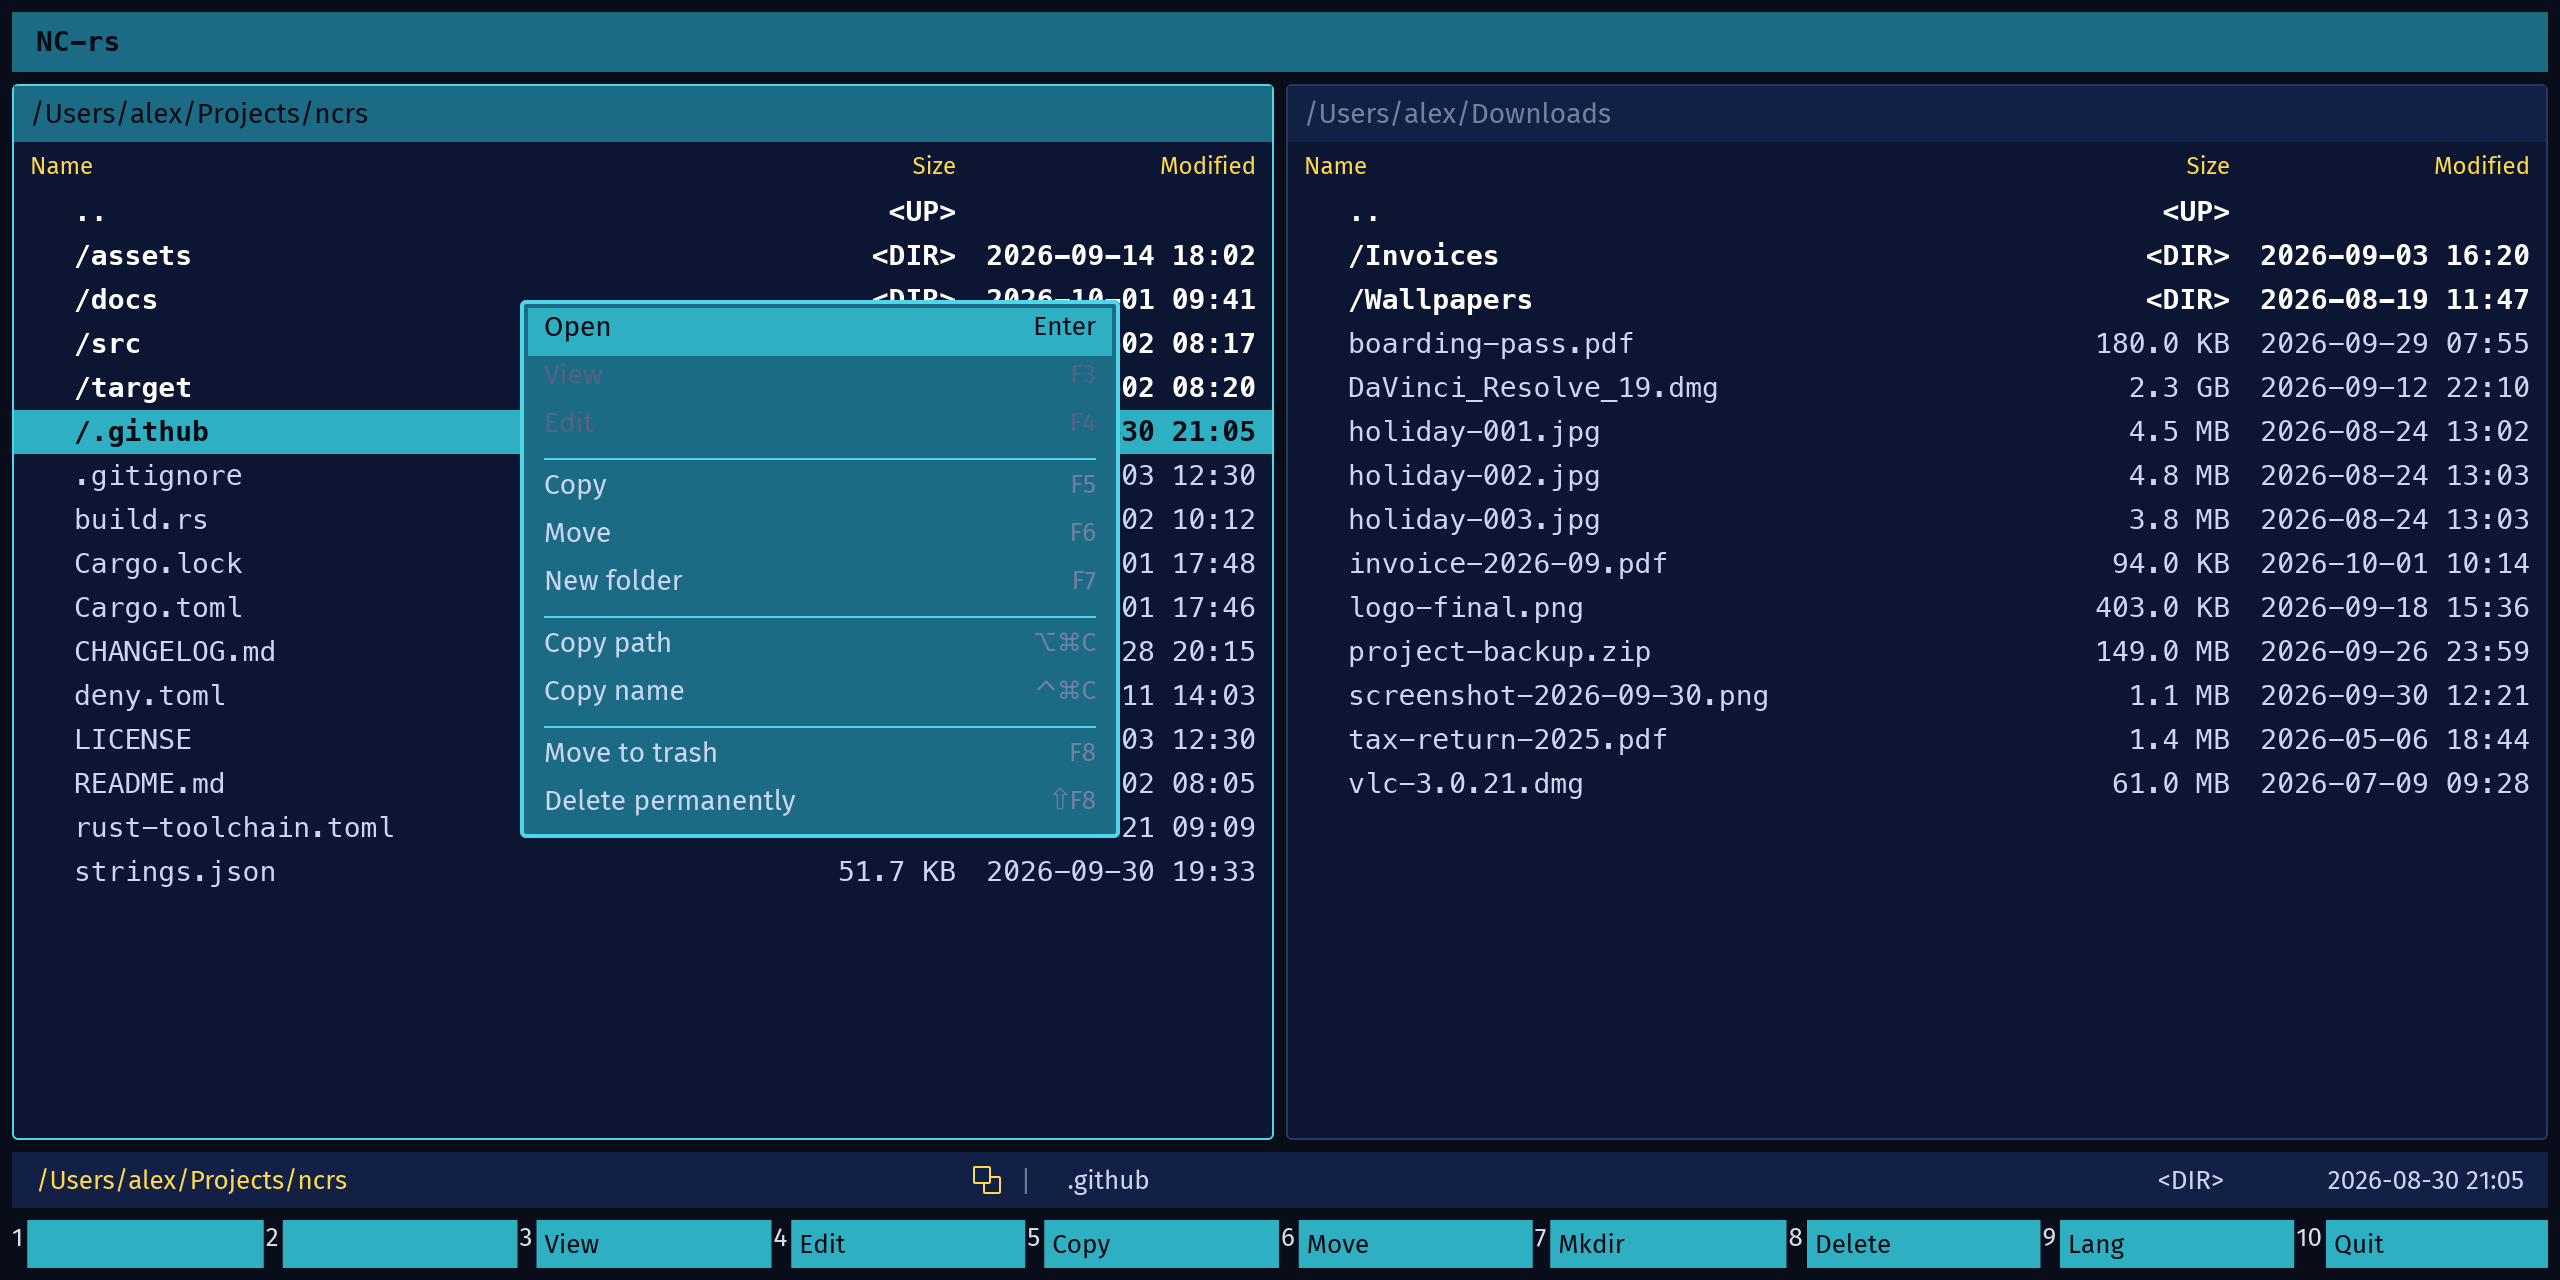
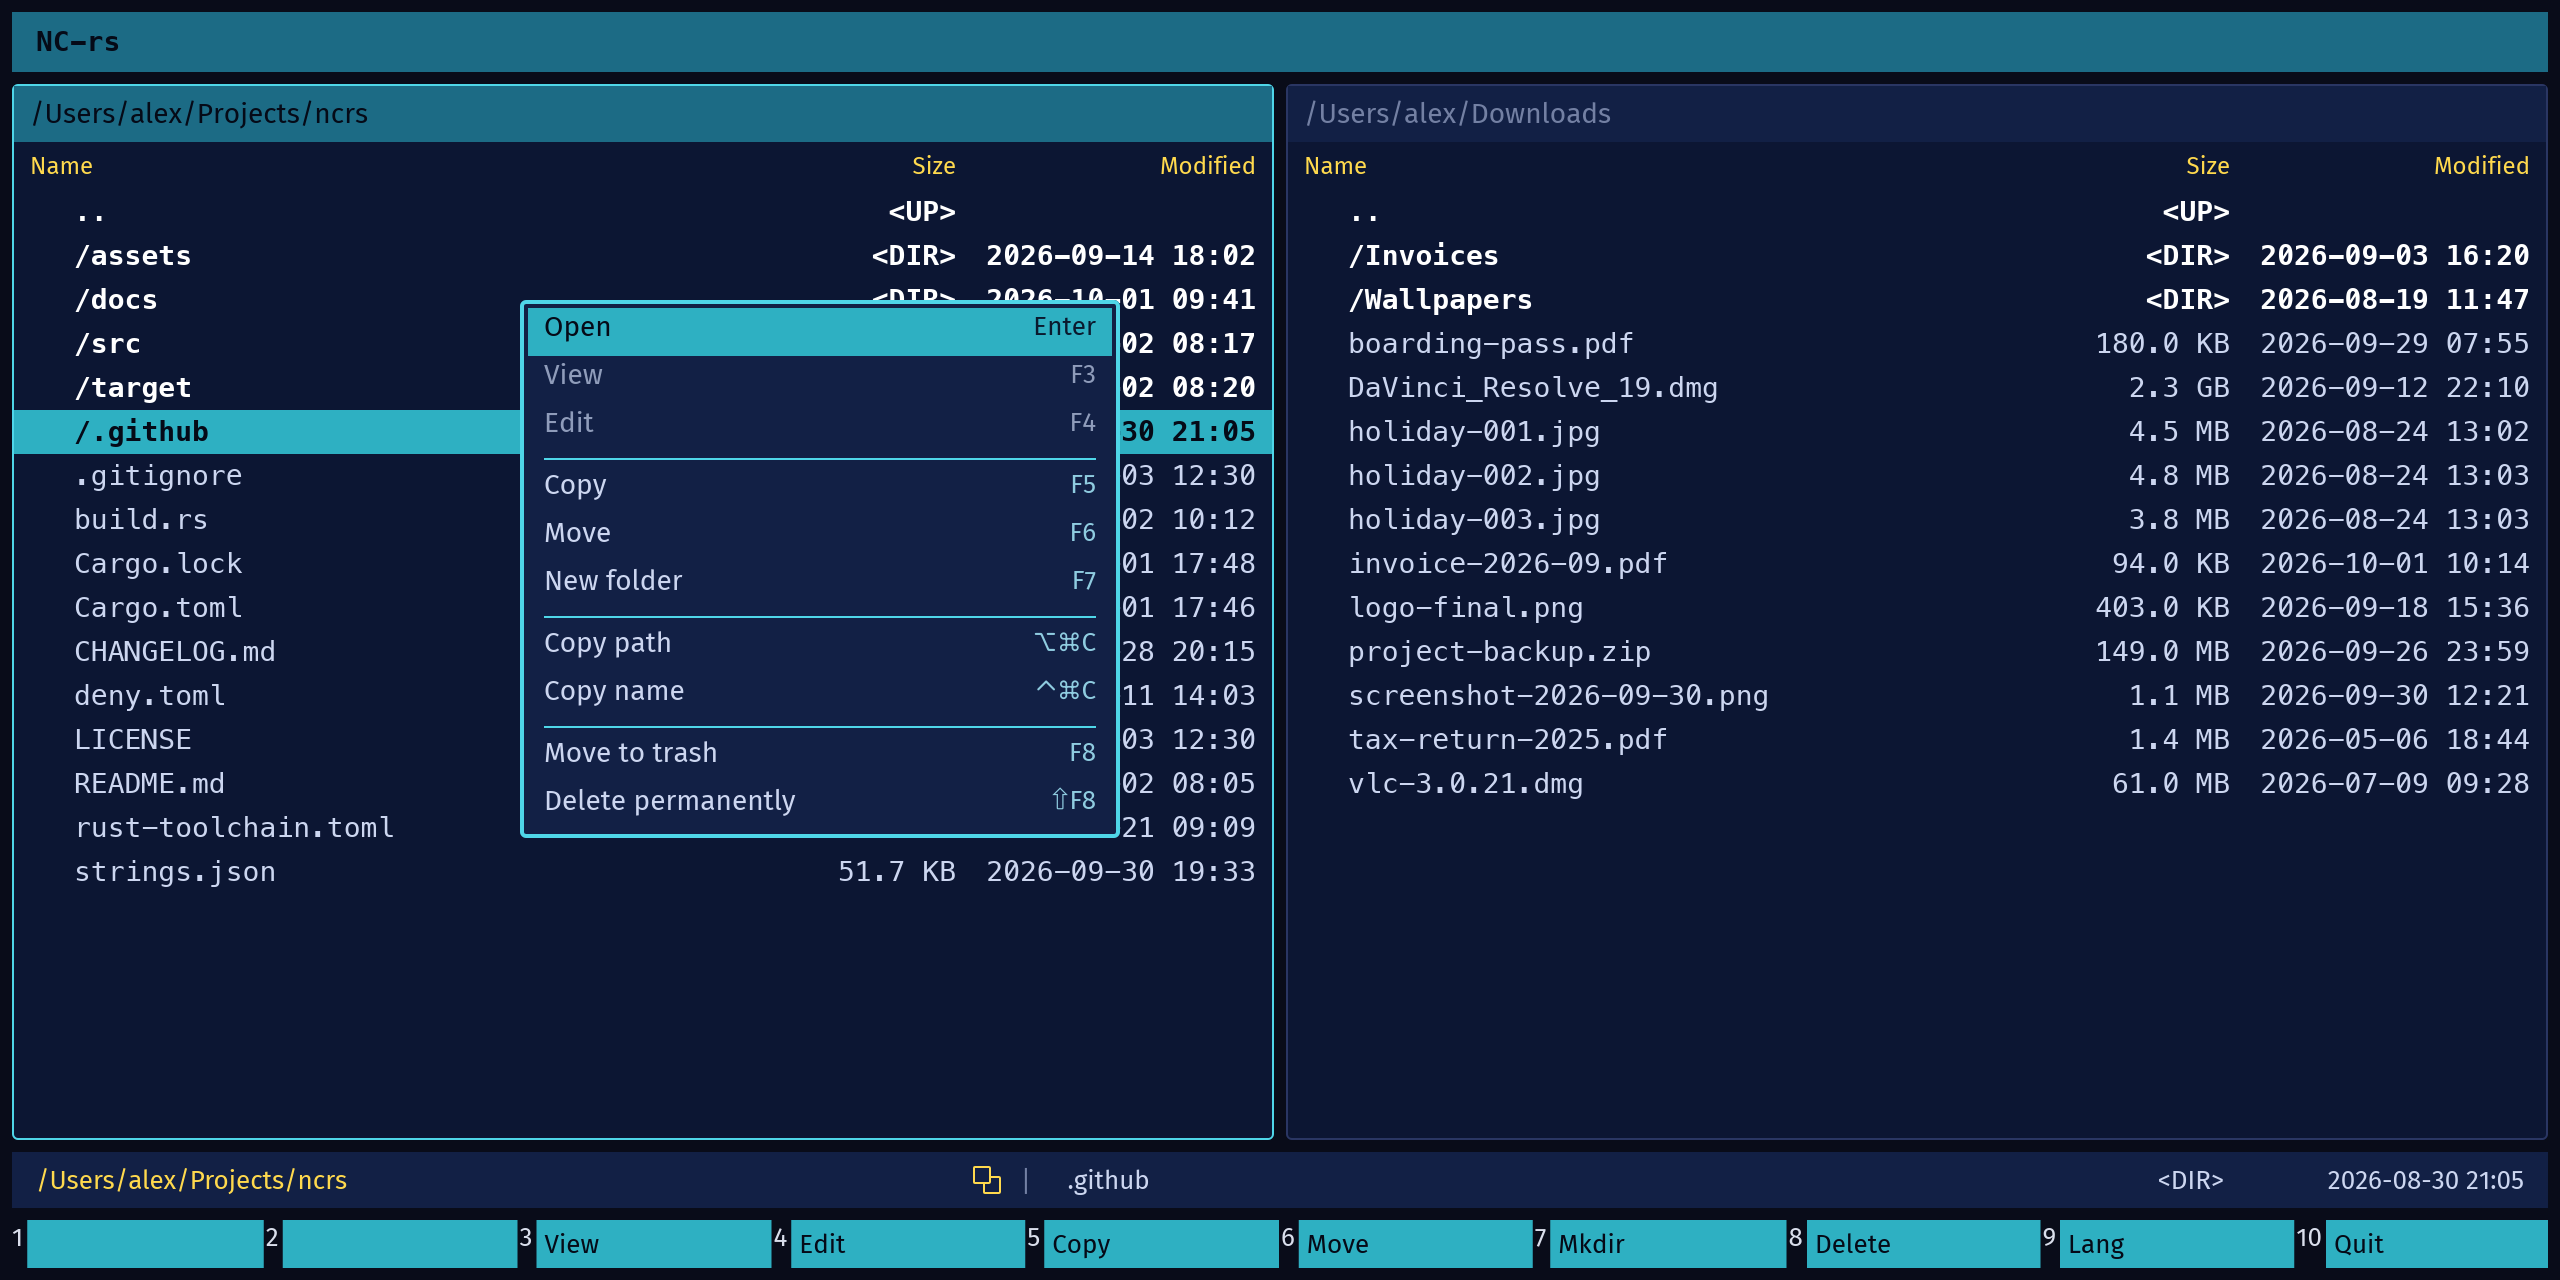
Make context menu shortcuts and disabled entries legible

Changed region(s): [[0.1875, 0.2188, 0.4375, 0.6562]]

diff --git a/src/ui/theme.rs b/src/ui/theme.rs
@@ -21,8 +21,13 @@ pub mod colors {
     pub const INACTIVE_BORDER: Color = Color::from_rgb(0.165, 0.210, 0.390);
 
     pub const TEXT: Color = Color::from_rgb(0.800, 0.840, 0.940);
-    pub const DISABLED_TEXT: Color = Color::from_rgb(0.330, 0.380, 0.520);
     pub const DIM_TEXT: Color = Color::from_rgb(0.450, 0.500, 0.640);
+    /// Behind the context menu: darker than the dialog box so the dimmed texts
+    /// on it stay legible.
+    pub const MENU_BACKGROUND: Color = Color::from_rgb(0.070, 0.125, 0.270);
+    pub const MENU_SHORTCUT: Color = Color::from_rgb(0.560, 0.800, 0.880);
+    pub const MENU_SHORTCUT_SELECTED: Color = Color::from_rgb(0.040, 0.100, 0.180);
+    pub const MENU_DISABLED_TEXT: Color = Color::from_rgb(0.560, 0.610, 0.730);
     pub const DIR_COLOR: Color = Color::from_rgb(1.000, 1.000, 1.000);
     pub const ACCENT: Color = Color::from_rgb(1.000, 0.850, 0.300);
     /// Confirmations, drawn on the title bar.
@@ -231,6 +236,14 @@ pub fn dialog_checkbox(_theme: &Theme, status: checkbox::Status) -> checkbox::St
     }
 }
 
+/// The box of the context menu.
+pub fn menu(theme: &Theme) -> container::Style {
+    container::Style {
+        background: Some(Background::Color(colors::MENU_BACKGROUND)),
+        ..dialog(theme)
+    }
+}
+
 /// One entry of the context menu: flat, the highlighted one filled like the
 /// cursor row of a panel.
 pub fn menu_item(selected: bool) -> impl Fn(&Theme, button::Status) -> button::Style {
@@ -284,5 +297,42 @@ pub fn icon_square(filled: bool) -> impl Fn(&Theme) -> container::Style {
             radius: 1.0.into(),
         },
         ..container::Style::default()
+    }
+}
+
+#[cfg(test)]
+mod tests {
+    use super::colors::*;
+    use iced::Color;
+
+    fn linear(channel: f32) -> f32 {
+        if channel <= 0.03928 {
+            channel / 12.92
+        } else {
+            ((channel + 0.055) / 1.055).powf(2.4)
+        }
+    }
+
+    fn luminance(color: Color) -> f32 {
+        0.2126 * linear(color.r) + 0.7152 * linear(color.g) + 0.0722 * linear(color.b)
+    }
+
+    fn contrast(a: Color, b: Color) -> f32 {
+        let (first, second) = (luminance(a), luminance(b));
+        (first.max(second) + 0.05) / (first.min(second) + 0.05)
+    }
+
+    #[test]
+    fn menu_shortcuts_are_legible_and_quieter_than_labels() {
+        assert!(contrast(MENU_SHORTCUT, MENU_BACKGROUND) >= 4.5);
+        assert!(contrast(MENU_SHORTCUT_SELECTED, SELECTED_BG) >= 4.5);
+        assert!(contrast(MENU_SHORTCUT, MENU_BACKGROUND) < contrast(TEXT, MENU_BACKGROUND));
+    }
+
+    #[test]
+    fn disabled_menu_entries_are_legible_but_dimmer_than_shortcuts() {
+        let disabled = contrast(MENU_DISABLED_TEXT, MENU_BACKGROUND);
+        assert!(disabled >= 3.0);
+        assert!(disabled < contrast(MENU_SHORTCUT, MENU_BACKGROUND));
     }
 }

diff --git a/src/ui/context_menu.rs b/src/ui/context_menu.rs
@@ -22,14 +22,14 @@ pub fn view(menu: &ContextMenu, lang: Language) -> Element<'_, Message> {
             MenuEntry::Item { action, enabled } => {
                 let is_selected = index == menu.selected();
                 let label_color = match (*enabled, is_selected) {
-                    (false, _) => colors::DISABLED_TEXT,
+                    (false, _) => colors::MENU_DISABLED_TEXT,
                     (true, true) => colors::SELECTED_TEXT,
                     (true, false) => colors::TEXT,
                 };
                 let shortcut_color = match (*enabled, is_selected) {
-                    (false, _) => colors::DISABLED_TEXT,
-                    (true, true) => colors::SELECTED_TEXT,
-                    (true, false) => colors::DIM_TEXT,
+                    (false, _) => colors::MENU_DISABLED_TEXT,
+                    (true, true) => colors::MENU_SHORTCUT_SELECTED,
+                    (true, false) => colors::MENU_SHORTCUT,
                 };
                 let shortcut = keymap::shortcut_label(&action.message()).unwrap_or_default();
                 let content = row![
@@ -63,7 +63,7 @@ pub fn view(menu: &ContextMenu, lang: Language) -> Element<'_, Message> {
     let body = container(Column::with_children(entries))
         .padding(MENU_PADDING)
         .width(MENU_WIDTH)
-        .style(theme::dialog);
+        .style(theme::menu);
 
     // `opaque` so a click on the menu's own padding is not taken for a click
     // beside it.
